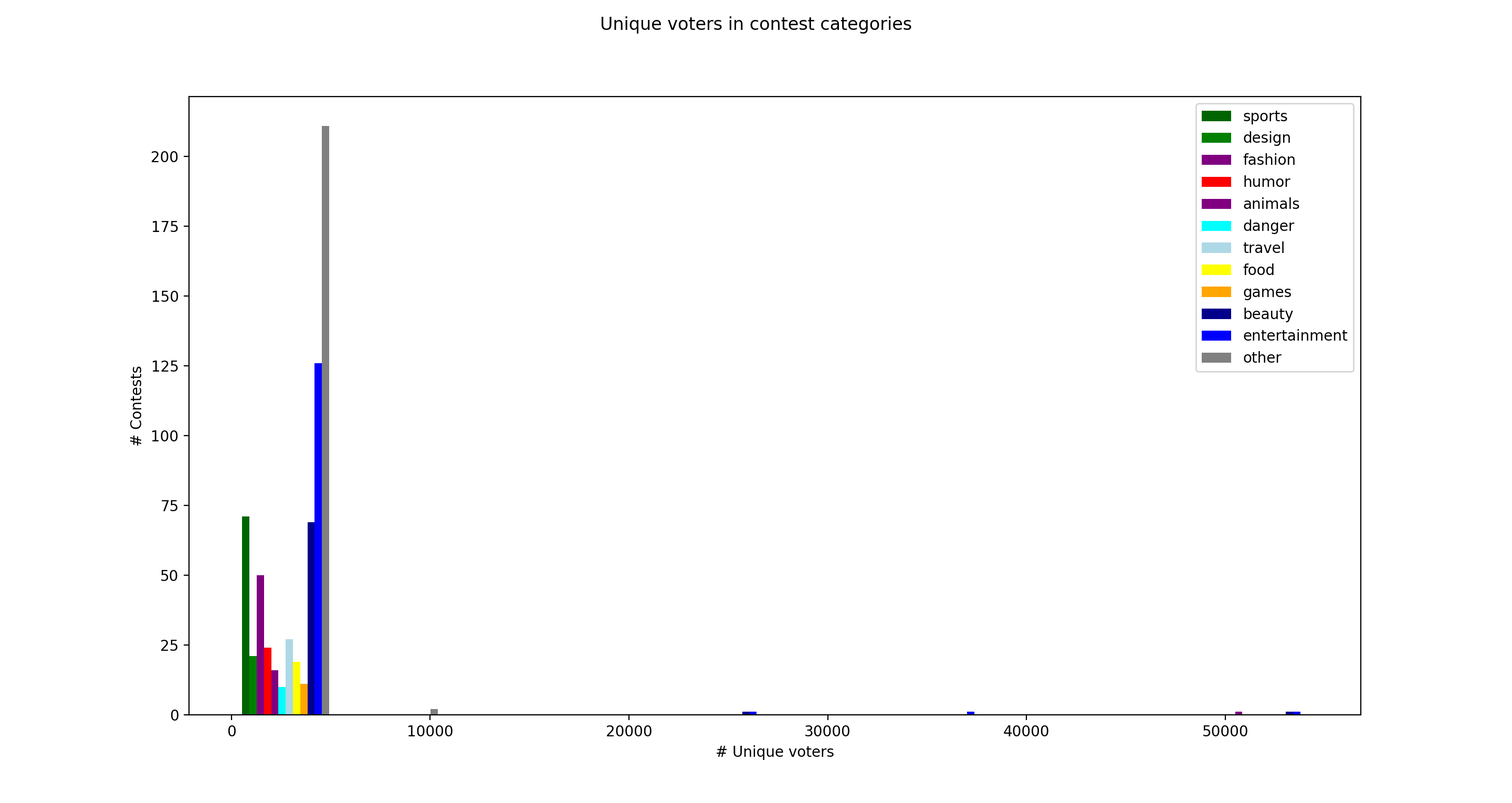
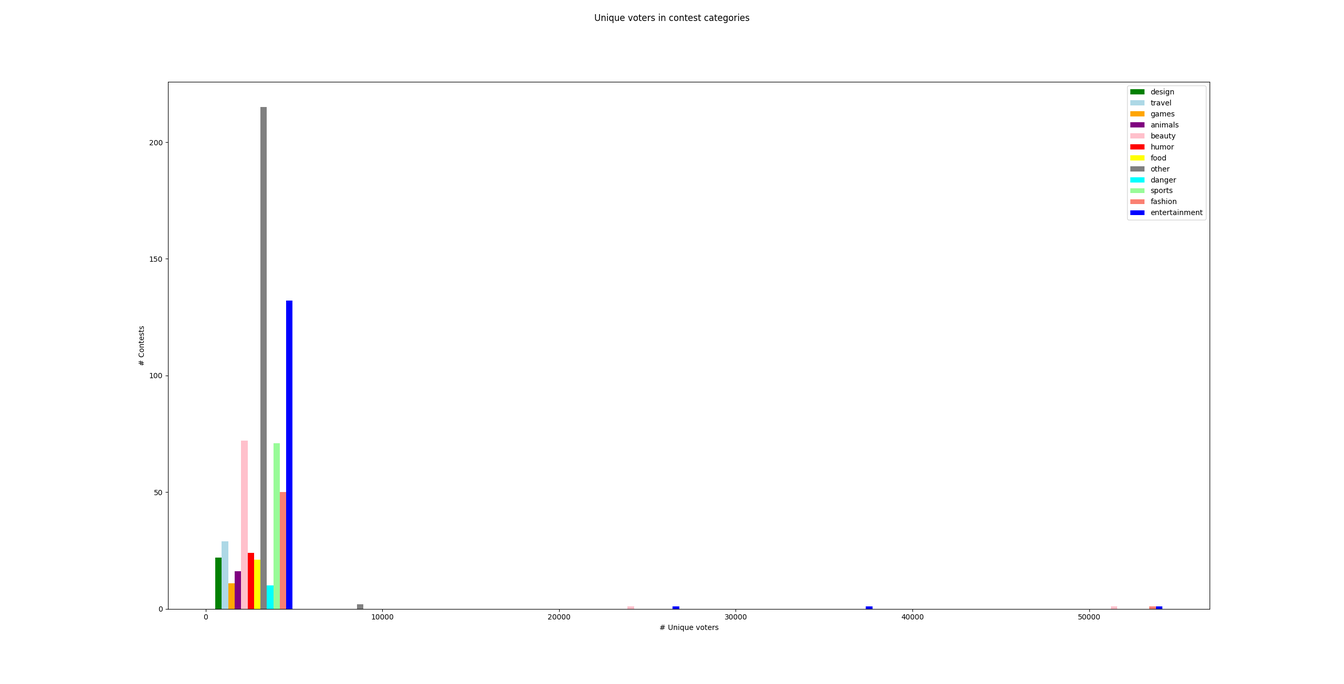
Added new contents

diff --git a/Thesis/data-mining-at-choicely.tex b/Thesis/data-mining-at-choicely.tex
@@ -1,24 +1,37 @@
 \subsection{Introduction to the Choicely voting platform}
     % what does the company do? 
-    Choicely \footnote{\url{http://choicely.com/}} is a voting platform developed by a Finnish startup, Lovented Ltd, since 2014. The software provides the possibility for users to engage in interesting contests by voting on their favorite contender. The platform has already hosted numerous contests in various fields, such as beauty pageants, public polls, design contests, sport events among many others. The customer base of the firm consist of mainly Finnish broadcasters, publishers and advertisers. However, the last year has brought numerous users and customers from all around the world.
+    Choicely \footnote{\url{http://choicely.com/}} is a voting platform developed by the Finnish Lovented Ltd since 2014. The software provides the possibility for users to engage in interesting contests by voting on their favorite contender. The platform has already hosted numerous contests in various fields, such as beauty pageants, public polls, design contests, talent shows, sport events among many others. The customer base of the firm consist of mainly Finnish broadcasters, publishers and advertisers. However, the recent years have brought numerous users and customers from all around the world.
     
     % what are the contests like, what kind of configuration settings are available?
     % The contests in the platform are created by users or brands. 
-    Contests can be of multiple types: ... % TODO ask Kaius 
+    Contests hosted in Choicely can be divided into generally two groups:
+    
+    \begin{enumerate}
+        \item voting contests: the contest organizer provides the participants to the contest. This way the list of participants cannot be changed as soon as a contest is created.
+        \item challenge contests: the public provides the participants to the contest. The list of participants may change over time depending on how many users would like to join with their own content. 
+    \end{enumerate}
     
     % voting options
-    Various voting options are available for contests. The author of the contest has the choice of setting a limit on how many votes users can spend on individual participants or the whole contest in overall. For instance, if the maximum votes in the contest is set to 1, users can give exactly one vote on exactly one participant. Configuration settings allow infinite votes as well. Removing votes is possible, if the author has decided to enable this possibility. Votes cannot be modified after the contest has ended.
+    Various voting options are available for both contest types. The author of the contest has the choice of setting a limit on how many votes users can spend on individual participants or the whole contest in overall. For instance, if the maximum votes in the contest is set to 1, users can give exactly one vote on one and only one participant. Configuration settings allow infinite votes as well. For instance, users may vote on all of the participants as many times as they like in a talent show in this case. Removing votes is possible, if the author has decided to enable this possibility. Votes cannot be modified after the contest has ended. Each contest has its own voting configuration.
     
     % free-silver-gold votes
-    On top of the regular free votes, contest authors may allow users to earn more votes (called "silver votes") by sharing the contest on social media or by watching advertisements. Furthermore, authors can allow users to purchase more votes (called "star votes" or "gold votes") with exactly the same restriction settings as explained above. Note, however that the configuration for the three vote types are distinct for every contest. This means that the limitation on free/silver/star votes may differ for individual participants as well as the whole contest. 
+    On top of the regular free votes, contest authors may allow users to earn more votes (called "silver votes") by sharing the contest on social media or by watching advertisements. Furthermore, contest authors can allow users to purchase more votes (called "star votes" or "gold votes") with exactly the same restriction settings as explained above. Note, however that the configuration for the three vote types are distinct for every contest. This means that the limitation on free/silver/star votes may differ for individual participants as well as the whole contest. For instance, a contest author may allow users to spend only 5 votes for free, but unlimited number of silver and gold votes in a contest.
 
     % how can one reach a contest in the platform?
-    Contests can be accessed through multiple interfaces (Figure \ref{choicely_platforms}). Naturally, the company's webpage provides a convenient way to create, browse and participate in contests. Choicely also has free mobile applications available on Android and iOS devices, that can be installed through the Google Play \footnote{\url{https://play.google.com/store/apps/details?id=com.choicely.android}} and the iOS App Store \footnote{\url{https://itunes.apple.com/fi/app/choicely/id1158798364}} on the devices. Finally, the company offers a web widget, which can be embedded as a framework in any webpage easily. The last option is often used by many of Choicely's customers, because it provides a convenient way to embed rich content in their own web pages. 
+    Contests can be accessed through multiple interfaces (Figure \ref{choicely_platforms}). Naturally, the company's webpage provides a convenient way to create, browse and participate in contests. Choicely also has free mobile applications available on Android and iOS devices, that can be installed through the Google Play \footnote{\url{https://play.google.com/store/apps/details?id=com.choicely.android}} and the iOS App Store \footnote{\url{https://itunes.apple.com/fi/app/choicely/id1158798364}} on the devices. Finally, the company offers a web widget, which can be embedded as a framework in any webpage easily. The last option is often used by many of Choicely's customers, because it provides a convenient way to embed rich content in their own web pages, which users are already familiar with. Users may vote and participate in their own contests if they like. Users may participate in arbitrary number of contests from three platforms: the two most popular mobile platforms (iOS and Android) and the web interface. 
     
-    % what do users have to do to participate? 
-    Majority of the contests require users to have a user profile in the Choicely platform. Optionally, profiles can be created through a regular sign-up process, where users register and pick a password for their authentication. When users choose this kind of registration, their e-mail addresses are confirmed through a verification link sent to their inbox, so that their identity is confirmed. Each user profile contains the features listed in Table \ref{user_profile_fields}. 
+    \begin{figure}[h] 
+        \begin{center}
+            \includegraphics[width=0.6\textwidth]{images/choicely_platforms.png}
+            \caption{Users can vote in contests through three interfaces: iOS devices, Android devices and web.}
+            \label{choicely_platforms}
+        \end{center}
+    \end{figure}
 
-    \begin {table}[]
+    % what do users have to do to participate? 
+    Majority of the contests require users to have a user profile in the Choicely platform. Choicely offers authentication through social media (Facebook and Google+) as a convenient option for users to sign up with one click. Optionally, user profiles can be created through a regular sign-up process, where users pick a username as their identities. When users choose this kind of registration, their e-mail addresses are confirmed through a verification link sent to their inbox, so that their identity is confirmed. Each user profile contains the features listed in Table \ref{user_profile_fields}. 
+
+    \begin{table}[]
         \centering
         \begin{tabular}{l|l}
             \textbf{Field}              & \textbf{Type} \\
@@ -32,39 +45,38 @@
             Age group                   & 0-17/18-24/25-34/35-44/45-54/55-64/65+ \\
             Introduction/Bio            & Free text
         \end{tabular}
-        \caption{The pruning rules used for preprocessing the data.}
+        \caption{The list of fields and their types for each user profile.}
         \label{user_profile_fields}
     \end{table}
 
-    % what is the connection between contests and users? How do the participate?
-    Users may vote and participate in their own contests if they like. Users may participate in arbitrary number of contests from three platforms: the two most popular mobile platforms (iOS and Android) and the web interface (Figure \ref{choicely_platforms}). 
-    
-    \begin{figure}[h] 
-        \begin{center}
-            \includegraphics[width=0.6\textwidth]{images/choicely_platforms.png}
-            \caption{Users can vote in contests through three interfaces: iOS devices, Android devices and web.}
-            \label{choicely_platforms}
-        \end{center}
-    \end{figure}
+    % other contest-related data
+    Contests also have some meta data which can facilitate data analysis. Each contest belongs to at least one but up to three of the following categories: animals, beauty, danger, design, entertainment, fashion, food, games, humor, sports, travel, other. The category labels are aligned by the contest's author upon creation. Contests also have starting and an ending time, between which users can vote or participate in them. While votes arrive into a contest, the vote count value tells the number of total votes received, while the number of unique voters tells how many individual users have voted in the contest.   
 
     % what kind of data is generated?
-    The available data is two-folded: each user has a user profile, which contains basic demographic information about the user (gender and location), while contests have a number of participants with arbitrary number of votes that the users have spent on them. The vote changes for the contests are stored as transactions. This means that the database contains not the final results of the voting, but rather the changes what users made while using the software. This way it is possible to analyze the votes over time and to look at changes individually. For instance, it is possible to tell if a user has removed his/her votes from participant A and moved them to participant B. Furthermore, this way of data representation to restore or simulate any previous state of the contest, in case it would be needed.
+    Consequently, the available data is two-folded: the user profiles contain demographic information about the users (age group, gender and location), while contests have a number of participants with arbitrary number of votes that the users have spent on them. The latter kind of data can be seen as digital footprints generated by users in the Choicely platform. The combination of these datasets sums up to the user data as explained in the previous chapter and Figure \ref{user_data_venn} in this particular case. This is further supported with the meta data of contests explained in the previous paragraph. 
 
-    % how does the data look like and how can it be retrieved?
-    The data is structured in nature and is stored in a... The data can be accessed via...
+    %The vote changes for the contests are stored as transactions. This means that the database contains not the final results of the voting, but rather the changes what users made while using the software. This way it is possible to analyze the votes over time and to look at changes individually. For instance, it is possible to tell if a user has removed his/her votes from participant A and moved them to participant B. Furthermore, this way of data representation to restore or simulate any previous state of the contest, in case it would be needed.
 
-    %  why is it important to analyze this kind of data and what can we learn from it? 
-    There is a need to analyze this data, because...
-    
 \subsection{Research setting}
     % why is the data analysis relevant from scientific research point of view?
-    Performing scientific research on such data is interesting for multiple reasons. To begin with, at the beginning of the research Choicely does not utilize data analysis tools to gain better understanding on the collected data. It is in the interest of the company and its customers to better understand what kind of audience was engaged in the past, what kind of content is more (or less) successful, what the tendencies in user behavior are. As a result, the introduction of data visualization and analysis tools at the company will greatly enhance business value of the firm and provide deeper understanding on the domain as well as the user base.   
+    Performing scientific research on such data is interesting for multiple reasons. To begin with, at the time of this research Choicely does not utilize data analysis tools to gain better understanding on the collected data. It is in the interest of the company and its customers to better understand what kind of audience was engaged in the past, what kind of content is more (or less) successful and what tendencies in user behavior can be extracted from the data. As a result, the introduction of data analysis and visualization tools at the company will greatly enhance business value of the firm, provide deeper understanding on the domain as well as the existing user base.   
     
     % how is Choicely different than other social networks or any other repository of user data?
     Secondly, Choicely can be looked at as a social network, because some of the platform uploaded to the platform is generated by users. Users also have the possibility to express their appreciation or support towards some contest participants by spending votes on them. Similarly to social networking sites, where the "like" feature is often used \cite{jang2015noreciprocity, bakhshi2014faces} this phenomena can be looked at as a way of expressing personal opinion. 
     
     In comparison to most of the currently available social networks, voting platforms like Choicely are observed by the audience differently. On one hand, social media sites usually list posts or images on a feed, where there is theoretically no relation between the posts that follow eachother. On the other hand, contestants in the Choicely platform share similarities as they were nominated for the same contest. Accordingly, there must be some similarity among them as all are subjects of the contest's topic, rules and are competing for the best possible result. 
+
+    % so what? Why is that important from user point of view
+    This slight difference in the content makes a big change in terms of user behavior. The focus moves from "what kind of content I like" to "which piece of content I like the most in comparison to the rest". Consequently, users will scan through some (or optimally all) of the contestants and make unconscious decisions upon whether to give vote(s) on certain contest participant(s). The users express their favour and support towards a subset of contenders, and hence helping them to reach their ultimate goal: winning in the contest. 
+    % how can this contribute to user behavior and social media studies? 
+    This difference compared to other social networking sites offers a great possibility for research. The potential of identifying what kind of content among different contests individuals like as well as what kind of content similar group of users like, hinders in the data.    
+
+    % how computer vision is going to be utilized? 
+    One of the challenges in connecting users with topics of contests is that there is no indication on what the content on the contenders' pictures is. Contest authors only assign categories to the contests to be created, which does not necessarily describe the entrants in the contest. Other researches have successfully utilized computer vision to gather meta data for the uploaded content in image sharing communities \cite{bakhshi2014faces, hu2014we}. 
     
+    % what is the solution to this problem?
+    Deriving from the success in previous studies \cite{hu2014we, farseev2015harvestingmultiplesources, han2016teensarefrommars, bakhshi2014faces}, computer vision is utilized in this research to identify labels that appear on the participants' images. For instance, a beauty pageant's entry image may be labelled with meta data, such as "Beauty", "Photo Shoot", "Smile" and "Blonde". Similarly, a design contests entry might have topic labels, such as "Landmark" or "Architecture". Figure \ref{google_vision_labels} displays an example, where the Google Vision API was used to extract such labels from images, that were participants in two of Choicely's contests.
+
     \begin{figure}[h] 
 		\begin{center}
             \includegraphics[width=0.8\textwidth]{images/google_vision_labels.png}
@@ -74,15 +86,10 @@
 		\end{center}
     \end{figure}
 
-    % so what? Why is that important from user point of view
-    This slight difference in the content makes a big change in terms of user behavior. The focus moves from "what kind of content I like" to "which piece of content I like the most in comparison to the rest". Consequently, users will scan through some (or optimally all) of the contestants and make unconscious decisions upon whether to give vote(s) on certain contest participant(s). The users express their favour and support towards a subset of contenders, and hence helping them to reach their ultimate goal: winning in the contest. 
-
-    % how can this contribute to user behavior and social media studies? 
-    This difference compared to other social networking sites offers a great possibility for research. The potential of identifying what kind of content among different contests individuals like as well as what kind of content similar group of users like, hinders in the data.    
-
-    % how computer vision is going to be utilized? 
-    One of the challenges in connecting users with topics of contests is that there is no indication on what the content on the contenders' pictures is. Contest authors only assign categories to the contests to be created, which does not necessarily describe the entrants in the contest. Other researches have successfully utilized computer vision to gather meta data for the uploaded content in image sharing communities \cite{bakhshi2014faces, hu2014we}. Deriving from the success, computer vision is utilized in this research as well to identify labels that appear on the participants' images. For instance, a beauty pageant's entry image may be labelled with meta data, such as "Beauty", "Photo Shoot", "Smile" and "Blonde". Similarly, a design contests entry might have topic labels, such as "Landmark" or "Architecture". Figure \ref{google_vision_labels} displays an example, where the Google Vision API was used as a black box to identify such labels in images, that were extracted from two of Choicely's contests.
+    % how are the labels used - what is the method performed on them? 
+    Combining the identified labels and the vote data can provide information on user behavior. For instance it can be identified which demographic group of users like what kind of content, or the behavioral differences between two or more groups can be compared to eachother. Furthermore, this kind of information could be used to recommend new content in the platform to users which they have not seen before. Last but not least, it could be identified that which traits of participants contribute to more votes and engagement by users or certain user groups.  
     
+    \subsection{Data structure}
     % architectural overview
     The current architecture of the Choicely platform is...
     \begin{figure}[h] 
@@ -90,6 +97,14 @@
             \includegraphics[width=0.8\textwidth]{Images/architecture_whiteboard.jpg}
 			\caption{The brief architectural overview of the Choicely platform.}
 			\label{choicely_architecture}
+		\end{center}
+    \end{figure}
+
+    \begin{figure}[h] 
+		\begin{center}
+            \includegraphics[width=0.8\textwidth]{Images/IMG_1317.jpg}
+			\caption{The data sources of the data analysis in the Choicely platform.}
+			\label{choicely_data_sources}
 		\end{center}
     \end{figure}
 
@@ -107,57 +122,91 @@
     % Exploratory Data Analysis (EDA)
     To grasp on the currently available data, Exploratory Data Analysis (EDA) is utilized as the first step of the research. A comprehensive overview on the data related to the most important entities in the Choicely platform is performed by calculating basic statistical measures and visualizing the data. Such entities are the user profiles, the contests, contest participant and the votes performed by users on the contest participants. The findings of the EDA are then utilized to determine how to prune the data such that the acquired sample is representative, does not contain redundant nor faulty data. The results of the EDA are explained in the next section. 
 
+    % Preprocessing and pruning
+    Based on the results from the EDA, a subset of contests is chosen for more careful analysis. The subset of the contests is limited to those, which have engaged the most users and gathered a higher enough number of votes and unique voters (users who have voted at least once in the contest). After applying the pruning rules, some part of the data is preprocessed so that the analyses can be performed easily. The pruning rules and preprocessing steps are explained in the next section. 
+
+    % Association Analysis
+    Finally, Association Analysis is performed on the combined demographic, vote and the image label data in the chosen contests. The list of labels extracted from the participants in the contest are listed for each of the voters' transactions alongside with the voters' demographic data. The data retrieved from the three sources is combined as shown in Table \ref{association_analyisis_data}. Frequent Itemset Analysis is then performed on the data to identify behaviors and preferences of the different demographic groups. Association Rule Discovery is performed on the same data to understand which pair of traits can engage more of the (targeted) audience.  
+
+    \begin{table}[]
+        \centering
+        \begin{tabular}{l|l|l|l|l}
+            gender & age group & country & image id & labels \\
+            \hline
+            female & 25-34 & fin & 9d33085c-... & ['fashion model', 'hair', 'model', 'beauty', '...] \\
+            female & 18-24 & fin & 9d33085c-... & ['fashion model', 'hair', 'model', 'beauty', '...] \\
+            female & 65+ & fin & 9d33085c-... & ['fashion model', 'hair', 'model', 'beauty', '...] \\
+            female & 18-24 & swe & 9d33085c-... & ['fashion model', 'hair', 'model', 'beauty', ...] \\
+            female & 18-24 & swe & 9d134a94-... & ['beauty', 'blond', 'human hair color', 'model', ...]
+        \end{tabular}
+        \caption{The format of the data used for Association Analysis.}
+        \label{association_analyisis_data}
+    \end{table}
+
     % check \cite{socialdiversityongithub} -> Blau index / diversity index: reflects how many different types (such as species) there are in a dataset (a community), and simultaneously takes into account how evenly the basic entities (such as individuals) are distributed among those types.
     
     % what are the decisions behind the choices? 
     % what were the alternatives and why were they rejected? 
+    % performance comparison - why was the local cache added?
 
 \subsection{Results}
     \subsubsection{Exploratory Data Analysis}
     % what are the takeaways of the EDA? 
-    The EDA fundamentally focused on two aspects of the data at hand: the content and the user profiles and the distributions of the features of these entities. First, the findings related to the content, then the user profiles in the Choicely platform are presented in the paragraphs to follow. 
+    The EDA fundamentally focused on two aspects of the data at hand: the user engagement in contests and the completeness of user profiles. First, the findings related to the content, then the user profiles in the Choicely platform are presented in the paragraphs to follow.
     
     % content
+        % unique voters
+        At the time of conducting this research, there is a total number of 536 contests in the platform. All if the contests have a few attributes which can help answering RQ2 presented in the Introduction chapter. To gain an understanding on how many users are typically engaged in contests, the number of unique voters is studied in comparison to the number of contests. Figure \ref{user_engagement_in_contests} displays a histogram and a boxplot of these measures. 
+        
+        \begin{figure}[h] 
+            \begin{center}
+                \includegraphics[width=0.8\textwidth]{Images/user_engagement_in_contests.png}
+                \caption{The number of unique voters over contests.}
+                \label{user_engagement_in_contests}
+            \end{center}
+        \end{figure}
+
+        It can be easily seen that most of the contests engage very small amount of users, as the median of the unique voters value for all contests is 3. However, some of the contest have proven to be very successful, as the highest number of unique voters is close to $max_{unique_voters} \approx 55 000$. This observation is also supported with the mean value ($\mu = 464.65$) and the standard deviation ($\sigma = 3111.44$).These numbers allow us to conclude that many of the contests engage very small number of users. In order to retrieve a representative sample, contests with small enough unique voters is hence excluded in the pruning phase, which is explained in the next chapter. 
+        
+        Similarly to studying the number of unique voters on all contests, the same metric is broken down to all contest categories. The results are displayed on Figure \ref{user_engagement_in_categories}. It can be seen from the histogram, that a fairly high number of contests ($\approx 14 \% $) are categorized under the "other" category. This is probably due to the fact that authors did not assign the categories for one reason or another. It can be also seen that the amount of "beauty" and "fashion" contest is considerably high compared to the other categories, which is in align with the case company's profile at the point of conducting this study. From this visualization it is also visible that the amount of "sports" contests is considerably low ($\approx 3.5 \% $). After filtering out contests with only to the "other" category, it was identified that many of the sports, humor, design, beauty and fashion-related contests were indeed not labeled correctly in terms of their categories. This issue was fixed manually in the preprocessing phase. 
+
         % number of contests in overall, by category
         % explain the findings that there were too many "other" type of contests which were fixed manually
         \begin{figure}[h] 
             \begin{center}
-                \includegraphics[width=0.8\textwidth]{Images/user_engagement_in_contests.png}
-                \caption{}
-                \label{}
-            \end{center}
-        \end{figure}
-
-        \begin{figure}[h] 
-            \begin{center}
                 \includegraphics[width=0.8\textwidth]{Images/user_engagement_in_categories_bar.png}
-                \caption{}
-                \label{}
-            \end{center}
-        \end{figure}
-        
-        \begin{figure}[h] 
-            \begin{center}
                 \includegraphics[width=0.8\textwidth]{Images/user_engagement_in_categories_pie.png}
-                \caption{}
-                \label{}
+                \caption{The number and percentage of unique voters over categories.}
+                \label{user_engagement_in_categories}
             \end{center}
         \end{figure}
-
-    % user profiles
-        % explain the distribution of users by gender, age group and country
-        % compare to the distribution of users who have participated in more than 2 contest -> compare and elaborate   
     
-        \begin{figure}[h] 
-            \begin{center}
-                \includegraphics[width=0.8\textwidth]{Images/user_demographics_distribution.png}
-                \caption{}
-                \label{}
-            \end{center}
-        \end{figure}
+    % explain the distribution of users by gender, age group and country
+    As the second part of EDA, the demographic data on user profiles was studied. Figure \ref{user_demographics_distribution} shows the distribution of 140 900 user profile in terms of gender, age group and country. This data is retrieved through each users profile, if they have given the related information or the privacy settings of the social media authentication allowed to retrieve the data. In case the information was not given or available from the social media profile, each filled was filled up with "other" values. It can be seen from the figure, that the distribution of males and females is considerably equal in the Choicely platform, but there is a large number of users, whose gender is unknown. Similarly, age group of users is often not known, however it can be seen that younger users are more active in Choicely, while elderly visitors are less engaged. 
+    % TODO: explain nationalities as well in case anything interesting is gonna be done with them
+    
+    \begin{figure}[h] 
+        \begin{center}
+            \includegraphics[width=0.8\textwidth]{Images/user_demographics_distribution.png}
+            \caption{The distribution of demographic attributes over all users.}
+            \label{user_demographics_distribution}
+        \end{center}
+    \end{figure}
 
-    % conclusions
-    The EDA has highlighted multiple ways how the data should be pruned in order to ensure the relevance of the data. 
+    % compare to the distribution of users who have participated in more than 2 contest -> compare and elaborate   
+    Thirdly, it was studied how often users return to participate in more than one contests. After retrieving all user profiles and their votes over all contests, the users who participated in less than 2 contests were filtered out. Figure \ref{user_demographics_distribution-pruned} displays the demographic attributes of such users. It can be seen that only a very small portion ($3362 / 140900 = 2.4 \% $) of the users return to participate in more than two contests. Interestingly however, $46.2 \%$ of the returning users are females, which is a big difference compared to their ratio in the overall population ($25.4 \% $, Figure \ref{user_demographics_distribution}). It allows the conclusion that females tend to be more active in terms of returning to vote in multiple contests. 
+
+    \begin{figure}[h] 
+        \begin{center}
+            \includegraphics[width=0.8\textwidth]{Images/user_demographics_distribution-pruned}
+            \caption{The distribution of demographic attributes over users who have participated in at least 2 contests.}
+            \label{user_demographics_distribution-pruned}
+        \end{center}
+    \end{figure}
+
+    % sum up and conclude
+    The EDA has highlighted multiple ways how the data should be pruned in order to ensure the relevance of the data. (...)
+    % TODO Conclusion
 
     \subsubsection{Preprocessing and pruning}
     It was identified, that some of the data cannot be used for the purposes of this study and the results will be more representative, if some of the data is pruned. Hence, the following rules were applied to prune the data:
@@ -167,8 +216,7 @@
         \begin{tabular}{l|l}
             \textbf{Entity}              & \textbf{Pruning rule} \\
             \hline
-            \textbf{Contest}             & Unique voters < 100 or Unique voters == null or Contest participants < 2 \\
-            \textbf{ContestParticipant}  & Number of labels < 0 
+            \textbf{Contest}             & Unique voters < 100 or Contest participants < 2
         \end{tabular}
         \caption{The pruning rules used for preprocessing the data.}
         \label{contest_preprocessing_rules}
@@ -198,6 +246,30 @@
             \label{}
         \end{center}
     \end{figure}
+    % users
+
+    % Entities that match any of the rules displayed in Table \ref{preprocessing_rules} are dropped from the analysis. For instance, contests with less than 100 unique voters (users) and images without labels are considered irrelevant, and may bias the results of the study. After applying the preprocessing rules, the dataset is left with 92 contests, 1625 contest participants, 282545 votes and XXX unique voters over 10 contest categories. % TODO update occasionally
+
+    \subsubsection{Association analysis}
+    Some initial results for the Miss Fitness Finland contest \footnote{\url{https://choicely.com/contests/7a7b90f8-84c7-11e7-a452-a9f8b94782fe}}: 
+
+    [jewellery]
+    Male ----------------------------------------------------------------------------------------------------o------------0.13--------------------------------------------------------------------------------------- Female
+    
+    [jewellery, beauty]
+    Male ----------------------------------------------------------------------------------------------------o------------0.13--------------------------------------------------------------------------------------- Female
+
+    [jewellery, human hair color]
+    Male ----------------------------------------------------------------------------------------------------o------------0.13--------------------------------------------------------------------------------------- Female
+    
+    [shoulder, beauty, hair]
+    Male ----------------------------------------------------------------------------------0.18-----------------o---------------------------------------------------------------------------------------------------- Female
+
+    [model, shoulder, hair]
+    Male ----------------------------------------------------------------------------------0.18-----------------o---------------------------------------------------------------------------------------------------- Female
+    [human hair color, shoulder, hair]
+    Male ----------------------------------------------------------------------------------0.18-----------------o---------------------------------------------------------------------------------------------------- Female
+        
 
     \begin{figure}[h] 
         \begin{center}
@@ -206,8 +278,4 @@
             \label{association_analysis_flow}
         \end{center}
     \end{figure}
-    % users
 
-    Entities that match any of the rules displayed in Table \ref{preprocessing_rules} are dropped from the analysis. For instance, contests with less than 100 unique voters (users) and images without labels are considered irrelevant, and may bias the results of the study. After applying the preprocessing rules, the dataset is left with 92 contests, 1625 contest participants, 282545 votes and XXX unique voters over 10 contest categories. % TODO update occasionally
-
-    \subsubsection{Association analysis}

diff --git a/Thesis/introduction.tex b/Thesis/introduction.tex
@@ -34,8 +34,8 @@
         \item \textbf{How is user data understood and utilized in previous research and in industrial applications?}
         \item \textbf{What kind of content is more engaging for users and draws the most attention in the Choicely platform?} The aim of this research question is to understand which type of voting contests tend to engage more audience. Secondly, the question targets to analyze the attributes of those contestants, who received high number of votes. In other words, the aim is to find common features of contestants, who are highly rated by public opinion.     
         \item \textbf{What are the behavioral characteristics of users by location and gender?} This research question targets to answer the question how users tend to use the platform. This covers the analysis of what kind of content users seek, how the votes are spent and what similarities can be observed in the data. To gain more specific understanding, the users will be grouped by their gender and location data.  
-        \item \textbf{How is it possible to identify anomalies, such as peaks in or fraud usage from the data?}
-        \item \textbf{How is it possible to recommend relevant content for users based on prior user data?} The question targets to investigate and develop methods which can help users to find new content in the platform relevant to their interests.
+        %\item \textbf{How is it possible to identify anomalies, such as peaks in or fraud usage from the data?}
+        %\item \textbf{How is it possible to recommend relevant content for users based on prior user data?} The question targets to investigate and develop methods which can help users to find new content in the platform relevant to their interests.
     \end{enumerate}  
 
     % literature review

diff --git a/Thesis/audience-engagement-and-user-data-analysis.tex b/Thesis/audience-engagement-and-user-data-analysis.tex
@@ -3,7 +3,7 @@ Careful analysis on Big Data can enhance business domain understanding for any c
 \cite{jang2015noreciprocity, hu2014we, jang2016teensengagemorewithfewerphotos, han2016teensarefrommars, socialdiversityongithub}. 
 
 % how is the term user data used? 
-Despite its value and availability, this kind of data is often not looked at, however some interesting studies have been conducted in the field which promotes its analysis \cite{jang2016teensengagemorewithfewerphotos}. Although being widely present, there is no common agreement in the field what user data means.
+Despite its value and availability, this kind of data is often not looked at, however some interesting studies have been conducted in the field which promotes its analysis \cite{jang2016teensengagemorewithfewerphotos}. Although being widely present, there is no common agreement in the field what user data means. To address RQ1 of this research, user data is defined as follows. 
 
 % what is user data? what does it include or exclude?
 The term user data in this study covers two major kind of data that is related to users. On one hand it covers data, which is willingly uploaded and generated by users, on the other hand, it consists of data which generated through interactions while using software solutions (typically online).
